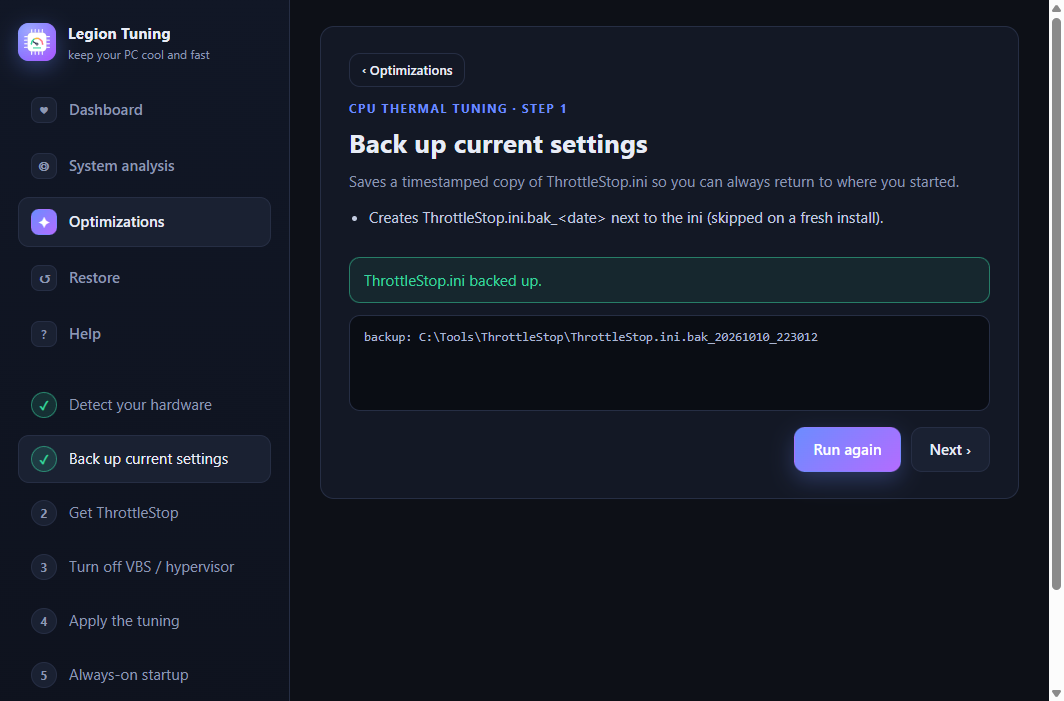
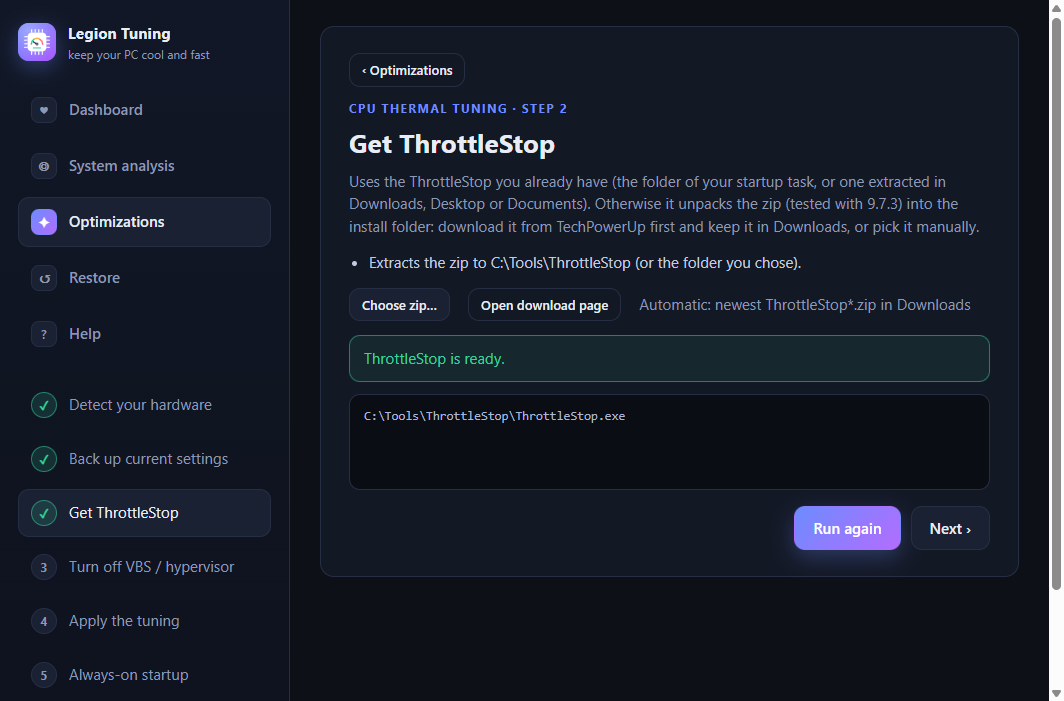
docs: explain that an existing ThrottleStop is found and used in place
README, getting-started and the wizard's step 2 text; step 2 screenshot regenerated.

diff --git a/app/renderer/app.js b/app/renderer/app.js
@@ -8,7 +8,7 @@ const STEPS = [
     desc: 'Saves a timestamped copy of ThrottleStop.ini so you can always return to where you started.',
     changes: ['Creates ThrottleStop.ini.bak_<date> next to the ini (skipped on a fresh install).'] },
   { id: 'get', title: 'Get ThrottleStop', kicker: 'Step 2',
-    desc: 'Unpacks ThrottleStop (tested with 9.7.3) into the install folder. Download the zip from TechPowerUp first and keep it in Downloads, or pick it manually.',
+    desc: 'Uses the ThrottleStop you already have (the folder of your startup task, or one extracted in Downloads, Desktop or Documents). Otherwise it unpacks the zip (tested with 9.7.3) into the install folder: download it from TechPowerUp first and keep it in Downloads, or pick it manually.',
     changes: ['Extracts the zip to C:\\Tools\\ThrottleStop (or the folder you chose).'], options: ['zip'] },
   { id: 'vbs', title: 'Turn off VBS / hypervisor', kicker: 'Step 3',
     desc: 'ThrottleStop can only change CPU voltages while Windows virtualization-based security is off. This is a security setting, so it is your choice.',

diff --git a/README.md b/README.md
@@ -40,8 +40,7 @@ This project gives you a **guided and reversible** setup, an **always-on** watch
 
 ### 1. Prerequisites
 - Windows 11 on a Lenovo Legion 83DE with an i9-14900HX (other systems are refused), administrator rights, laptop plugged in.
-- The ThrottleStop zip (tested with **9.7.3**) from [TechPowerUp](https://www.techpowerup.com/download/techpowerup-throttlestop/),
-  left in `Downloads`.
+- ThrottleStop (tested with **9.7.3**) from [TechPowerUp](https://www.techpowerup.com/download/techpowerup-throttlestop/): keep the zip in `Downloads`, or just keep it extracted anywhere in `Downloads`, `Desktop` or `Documents` (the installer finds and uses an existing copy, or the folder your startup task already uses).
 - Optional: Node.js 20+ to run the app from a clone.
 
 ### 2. Install

diff --git a/docs/getting-started.md b/docs/getting-started.md
@@ -5,7 +5,7 @@ supported: the app and the scripts refuse to apply the tuning to them.
 
 ## 1. What you need
 - Windows 11, administrator rights, the laptop **plugged in**.
-- The ThrottleStop zip (tested with 9.7.3) from <https://www.techpowerup.com/download/techpowerup-throttlestop/>, left in `Downloads`.
+- ThrottleStop (tested with 9.7.3) from <https://www.techpowerup.com/download/techpowerup-throttlestop/>: the zip in `Downloads`, or an already extracted copy in `Downloads`, `Desktop` or `Documents` (it is found and used in place; nothing is copied).
 - Optional: [Node.js](https://nodejs.org) 20+ to run the app from a clone (`npm install` runs once, from `app/`).
 - Optional: HWiNFO64 (sensors only) to watch temperatures while you play.
 
